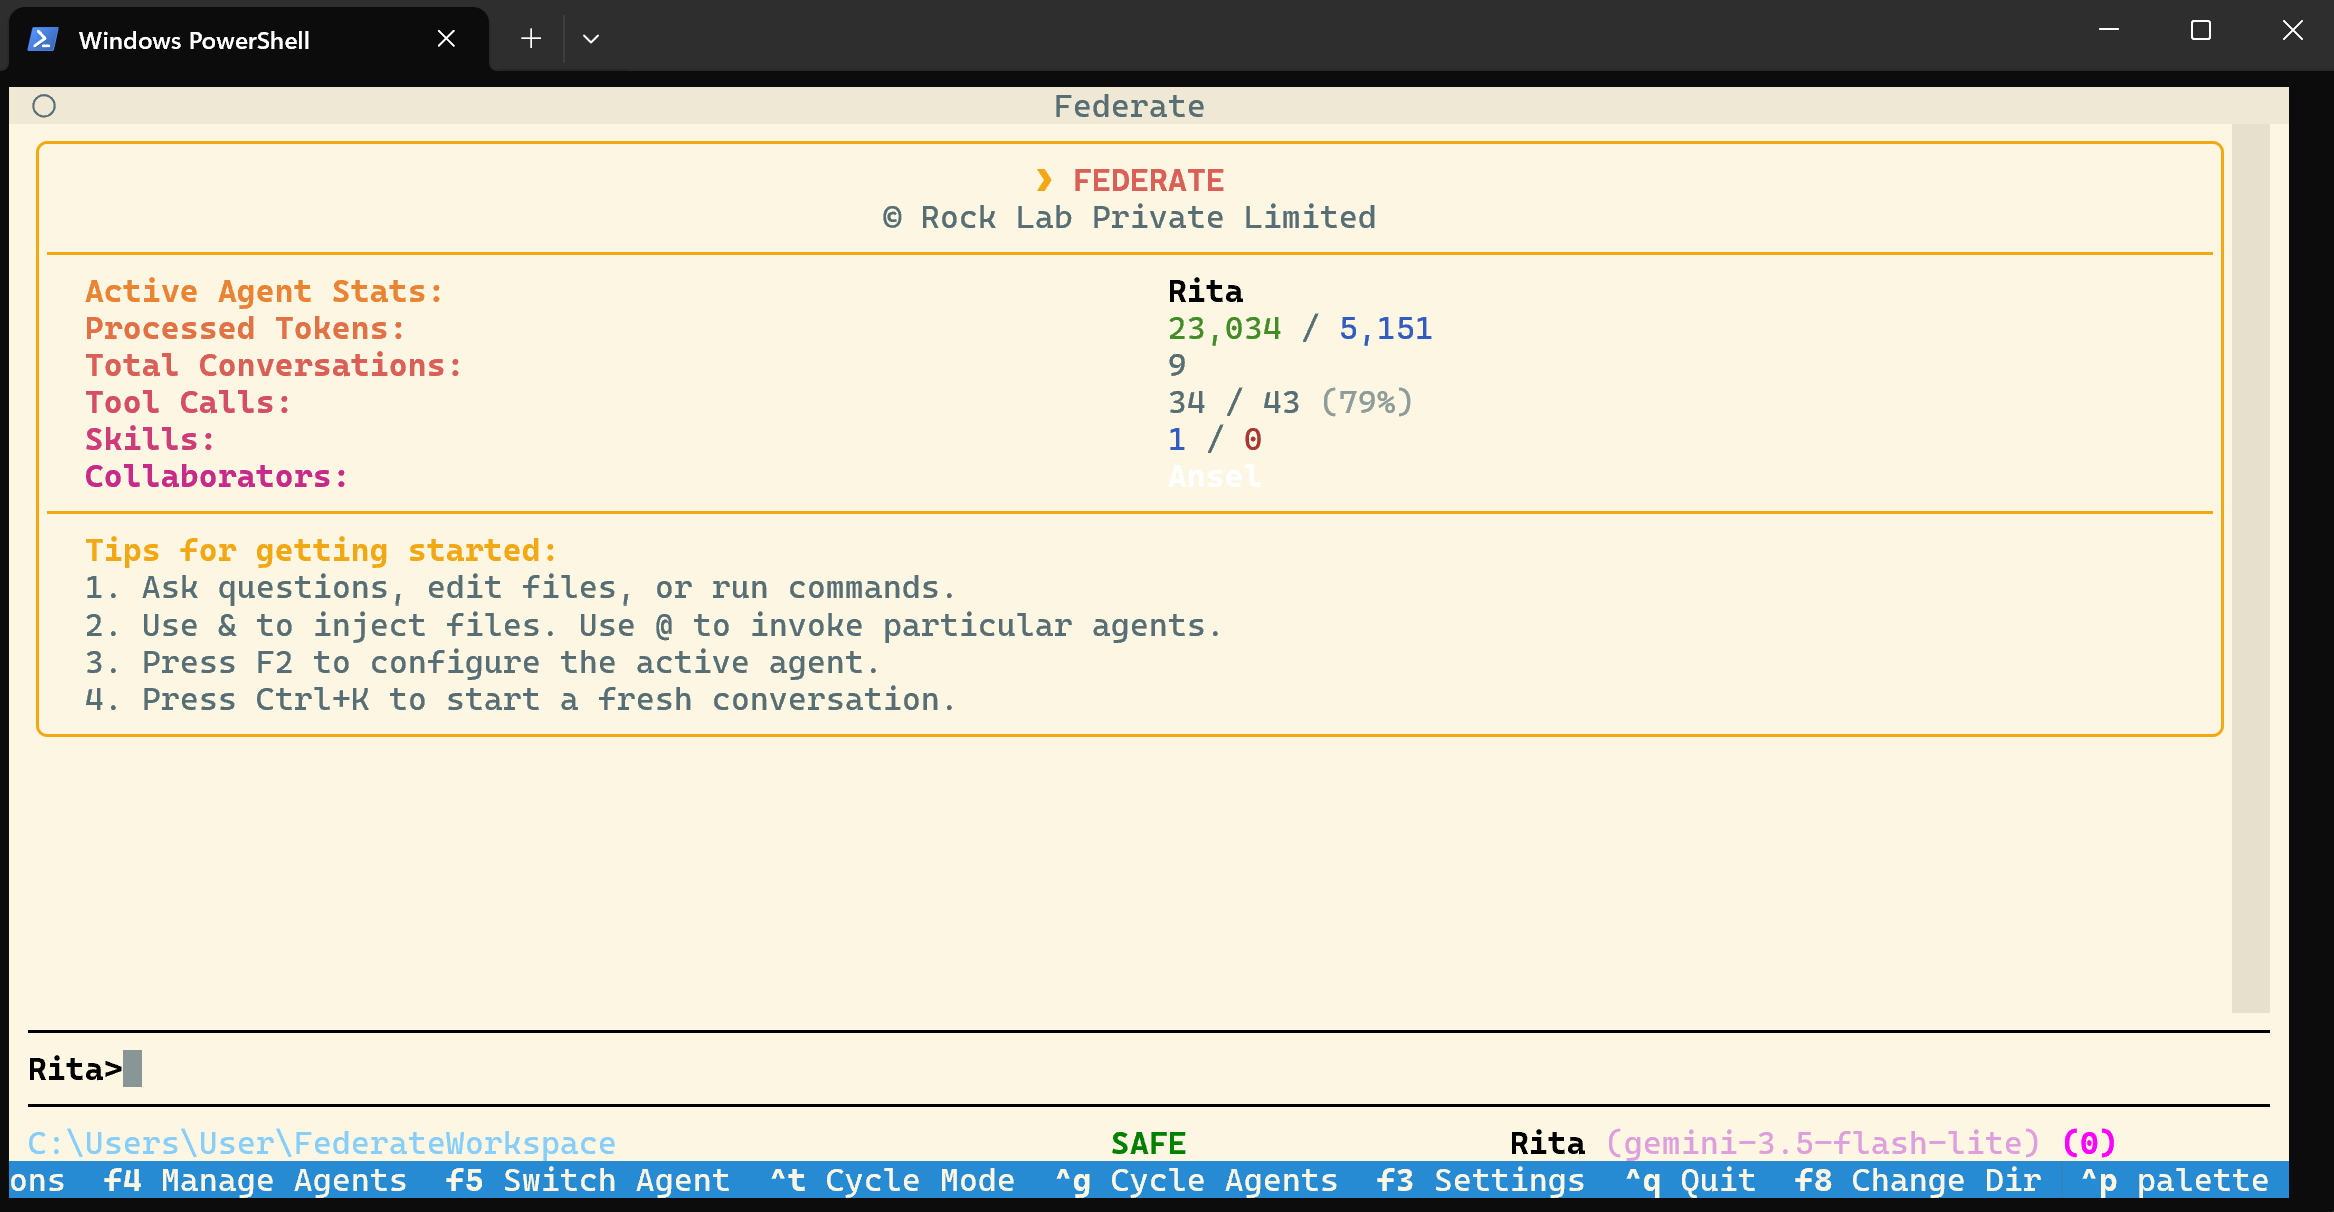
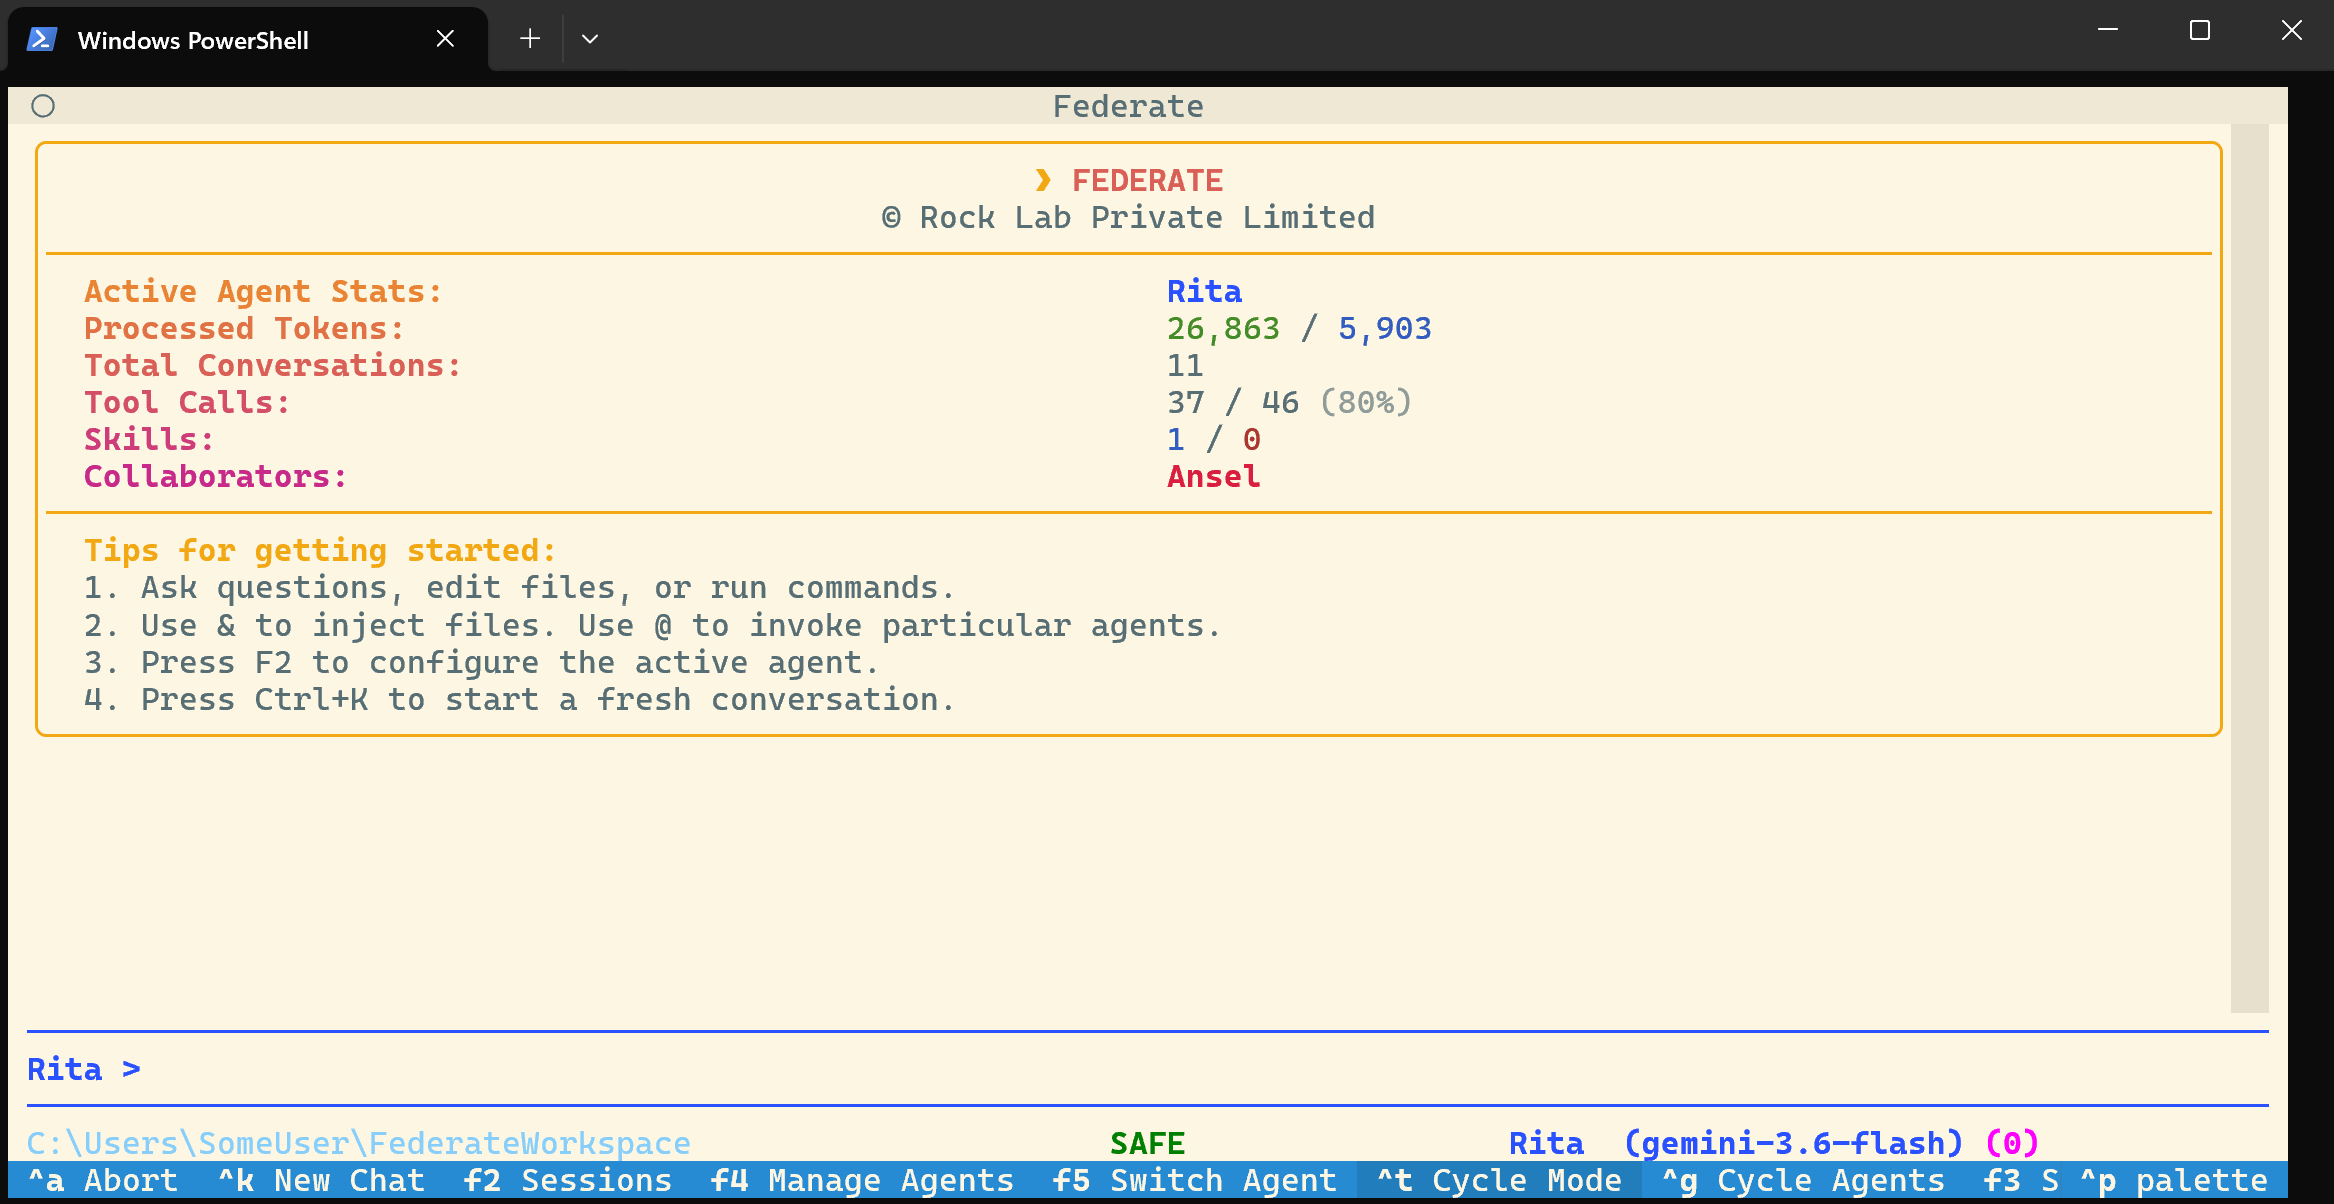
Update the copywriting slightly

diff --git a/landing/index.html b/landing/index.html
@@ -630,7 +630,7 @@
                 <!-- Feature Block 1: federate-skills.webp (Portrait Mobile) -->
                 <div class="feature-block">
                     <div class="feature-text-container reveal-up">
-                        <p class="eyebrow">Teach Them New Tricks</p>
+                        <p class="eyebrow">Teach Agents New Tricks</p>
                         <h2>Give your team custom skills to do exactly what you want.</h2>
                         <p>Your agents run directly on your computer. You can easily give them special skills—like managing a stock portfolio, renaming files, or sorting folders.</p>
                         <p>Whenever you need to check what they can do, just ask. They will show you their current capabilities in a simple, clear list.</p>
@@ -672,7 +672,7 @@
                 <!-- Feature Block: Peer-to-Peer Agent Network -->
                 <div class="feature-block">
                     <div class="feature-text-container reveal-up" style="max-width: 100%;">
-                        <p class="eyebrow">Peer-to-Peer Agent Network</p>
+                        <p class="eyebrow">Peer-to-Peer</p>
                         <h2 style="background: linear-gradient(135deg, #ffffff 0%, var(--brand-orange) 100%); -webkit-background-clip: text; -webkit-text-fill-color: transparent;">
                             An unmapped frontier in agent orchestration.
                         </h2>
@@ -700,7 +700,7 @@
             <!-- Highlights Grid -->
             <section id="highlights">
                 <div class="reveal-up" style="text-align: center; margin-bottom: 3rem;">
-                    <p class="eyebrow">Simple and Practical Utilities</p>
+                    <p class="eyebrow">Built-in Utilities</p>
                     <h2>Designed for Everyday Tasks</h2>
                 </div>
                 <div class="grid">

diff --git a/README.md b/README.md
@@ -6,7 +6,7 @@ It turns your terminal into an interactive workbench where you can run specializ
 
 ---
 <p align="center">
-  <img src="https://raw.githubusercontent.com/ROCK-LAB-PRIVATE-LIMITED/federate.ai/main/album_art.png" alt="Federate Logo" width="100%" />
+  <img src="https://raw.githubusercontent.com/ROCK-LAB-PRIVATE-LIMITED/federate.ai/main/landing/assets/federate_logo.webp" alt="Federate Logo" width="100%" />
 </p>
 
 ## What Makes Federate Different?
